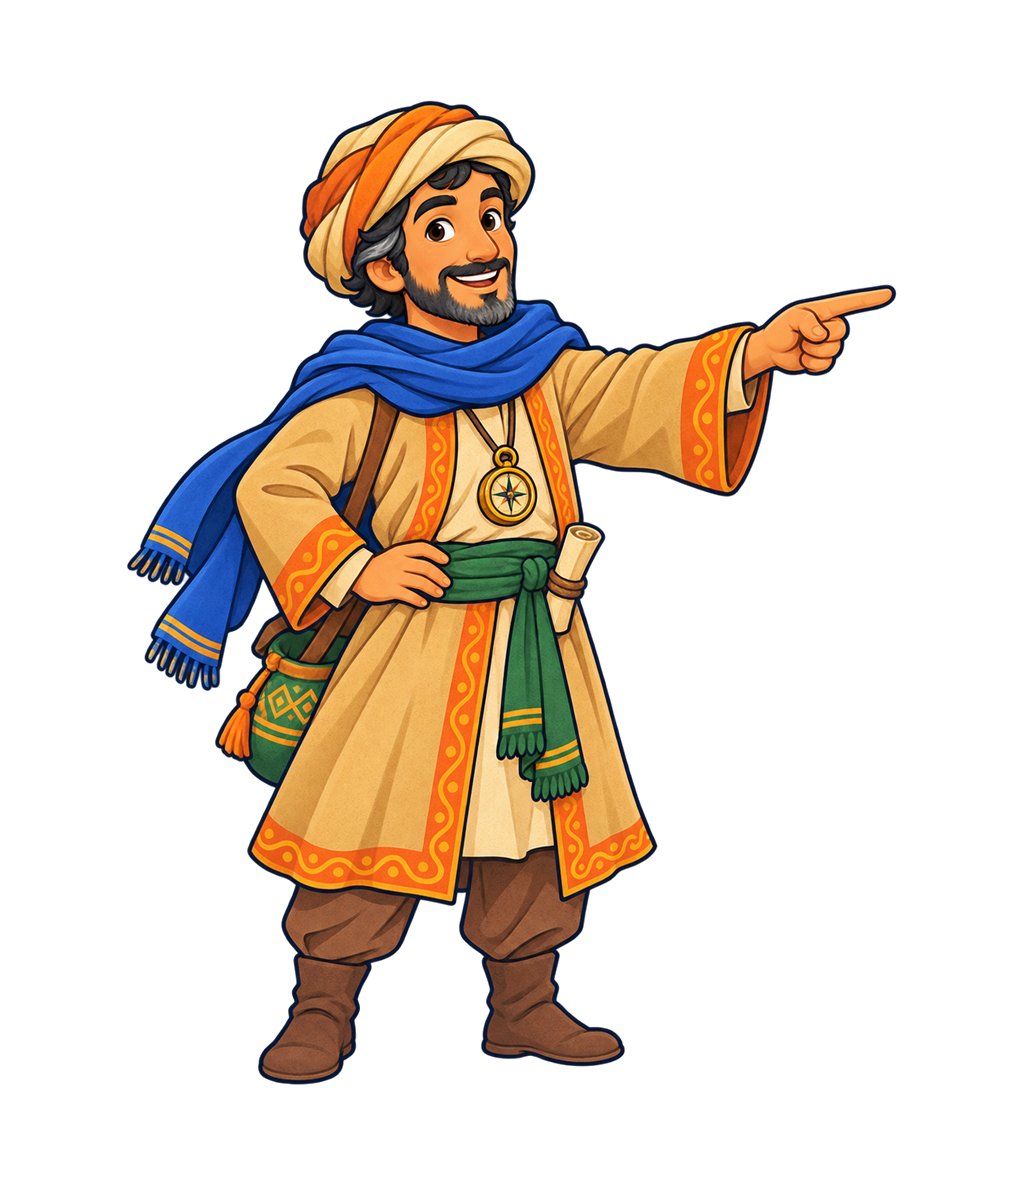
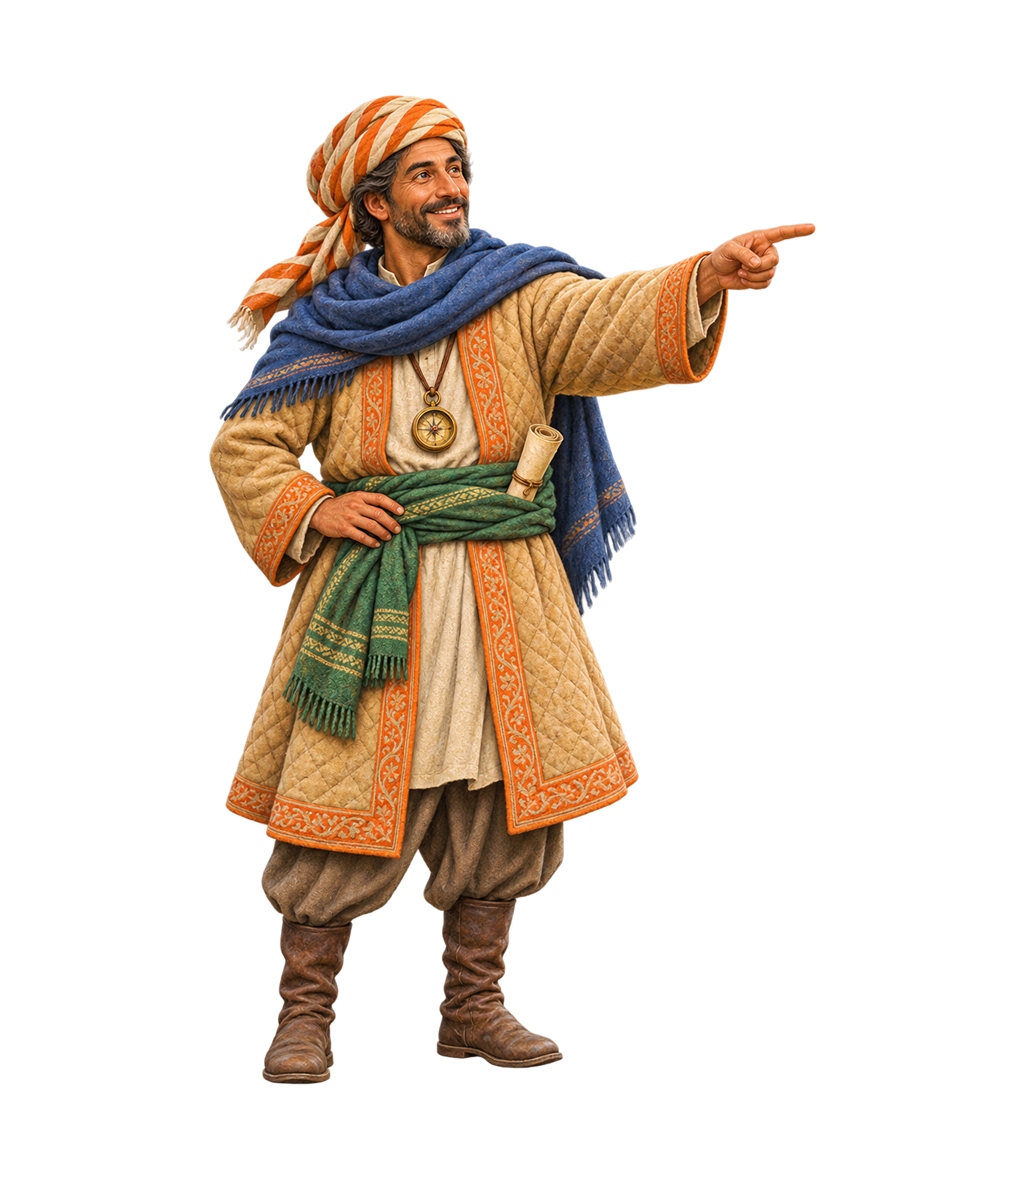
Guides redrawn in a detailed near-realistic painted style

Changed region(s): [[0.125, 0.061, 0.875, 0.9458]]

diff --git a/assets/_prompts/placeholder-guide-traveller-v2.md b/assets/_prompts/placeholder-guide-traveller-v2.md
@@ -1,0 +1,8 @@
+# placeholder-guide-traveller v2 (detailed near-realistic) — frames 1 and 2
+
+Character: a friendly, adventurous middle-aged SILK ROAD TRAVELLER (13th century) who learned many languages on the road: kind bright eyes, short dark beard with a few grey hairs, sun-warmed tan skin, a striped cream-and-tangerine head wrap, a sand-coloured quilted travelling coat with tangerine embroidered trim, a voyage-blue wool scarf, a green woven sash, soft leather boots, a rolled scroll tucked in the sash and a small brass compass on a cord.
+Frame 1 (point-a): standing, turned three-quarters to the viewer's RIGHT, smiling, one arm extended POINTING with the index finger toward the viewer's right side, other hand on the sash.
+Frame 2 (point-b): IDENTICAL character, outfit, colours, lighting, size and position on the canvas; only the pointing arm lifted slightly higher with a small encouraging tilt of the head.
+
+Style: DETAILED, NEAR-REALISTIC painted illustration, like high-end animated-film concept art or a beautifully illustrated history book: realistic human proportions and anatomy, detailed expressive face with natural skin tones and soft subsurface warmth, individual beard and hair strands, rich fabric textures (woven wool, embroidered trim, worn leather, polished brass), natural soft studio lighting from the upper left with gentle rim light, subtle painterly brushwork with clean readable edges. Warm, kind and approachable for children and families, never scary. Colours harmonise with sunny yellow #FFC83D, tangerine #FF7A3D, voyage blue #1C5BD9, palm green #17845A. Historically inspired, respectful clothing; no stereotypes or caricature, no weapons, no religious symbols. An invented character, not a real historical person.
+Constraints: TRANSPARENT background (PNG alpha), full body, the character alone, about 8% empty margin on every side, no text, no letters, no logos, no ground plate, no background scenery. Portrait canvas 1024x1180.

diff --git a/assets/_prompts/placeholder-guide-mapmaker-v2.md b/assets/_prompts/placeholder-guide-mapmaker-v2.md
@@ -1,0 +1,8 @@
+# placeholder-guide-mapmaker v2 (detailed near-realistic) — frames 1 and 2
+
+Character: a cheerful, kind elderly MAP-MAKER SCHOLAR inspired by 12th-century al-Andalus: neatly trimmed white beard, warm smile with laugh lines, warm olive skin, a cream linen tunic under an indigo wool robe with embroidered green-and-gold trim, a sunny-yellow sash, a soft indigo cap, a worn leather satchel with rolled parchment maps, holding a detailed brass astrolabe in one hand.
+Frame 1 (wave-a): standing, facing the viewer, the free hand raised high in a friendly WAVE, palm open, fingers tilted slightly outward.
+Frame 2 (wave-b): IDENTICAL character, outfit, colours, lighting, size and position on the canvas; only the waving hand moved so the open palm tilts inward (the other half of a wave).
+
+Style: DETAILED, NEAR-REALISTIC painted illustration, like high-end animated-film concept art or a beautifully illustrated history book: realistic human proportions and anatomy, detailed expressive face with natural skin tones and soft subsurface warmth, individual beard and hair strands, rich fabric textures (woven wool, embroidered trim, worn leather, polished brass), natural soft studio lighting from the upper left with gentle rim light, subtle painterly brushwork with clean readable edges. Warm, kind and approachable for children and families, never scary. Colours harmonise with sunny yellow #FFC83D, tangerine #FF7A3D, voyage blue #1C5BD9, palm green #17845A. Historically inspired, respectful clothing; no stereotypes or caricature, no weapons, no religious symbols. An invented character, not a real historical person.
+Constraints: TRANSPARENT background (PNG alpha), full body, the character alone, about 8% empty margin on every side, no text, no letters, no logos, no ground plate, no background scenery. Portrait canvas 1024x1180.

diff --git a/docs/BACKLOG.md b/docs/BACKLOG.md
@@ -21,5 +21,6 @@ Status: `todo` · `doing` · `done` · `parked` (waiting on something).
 | 13 | 2026-11-19 | Hide the top Android status bar (battery, notifications) | done | Hidden at runtime (expo-status-bar) and in app config (Android + iOS). |
 | 14 | 2026-11-19 | Map: move Africa, North America and South America a little to the left | done | Shifted 20 units west; boat route moved to stay in the Atlantic. |
 | 15 | 2026-11-19 | App icon: use more than one character and alternate them | done | Map-maker + traveller icon variants; splash shows the next one each launch. Store icon: owner picks at release. |
-| 16 | 2026-11-19 | Guide characters: more detailed, close to realistic drawing | todo | Regenerate guides (and icon variants) in a richer semi-realistic painted style. |
+| 16 | 2026-11-19 | Guide characters: more detailed, close to realistic drawing | done | Both guides redrawn near-realistic (v2), same poses/frames; v1 kept in _masters. Icon variants still v1 style: regenerate if wanted. |
 | 17 | 2026-11-19 | Phone log: "TypeError: Cannot read property 'length' of undefined" | done | Caused by the in-progress splash icon rotation (#15) reloading before splashIcons existed. |
+| 18 | 2026-11-19 | Map scrolls horizontally on Android and vertically on iPad — looks bad | todo | Fit the world to the screen with no scrolling. |
